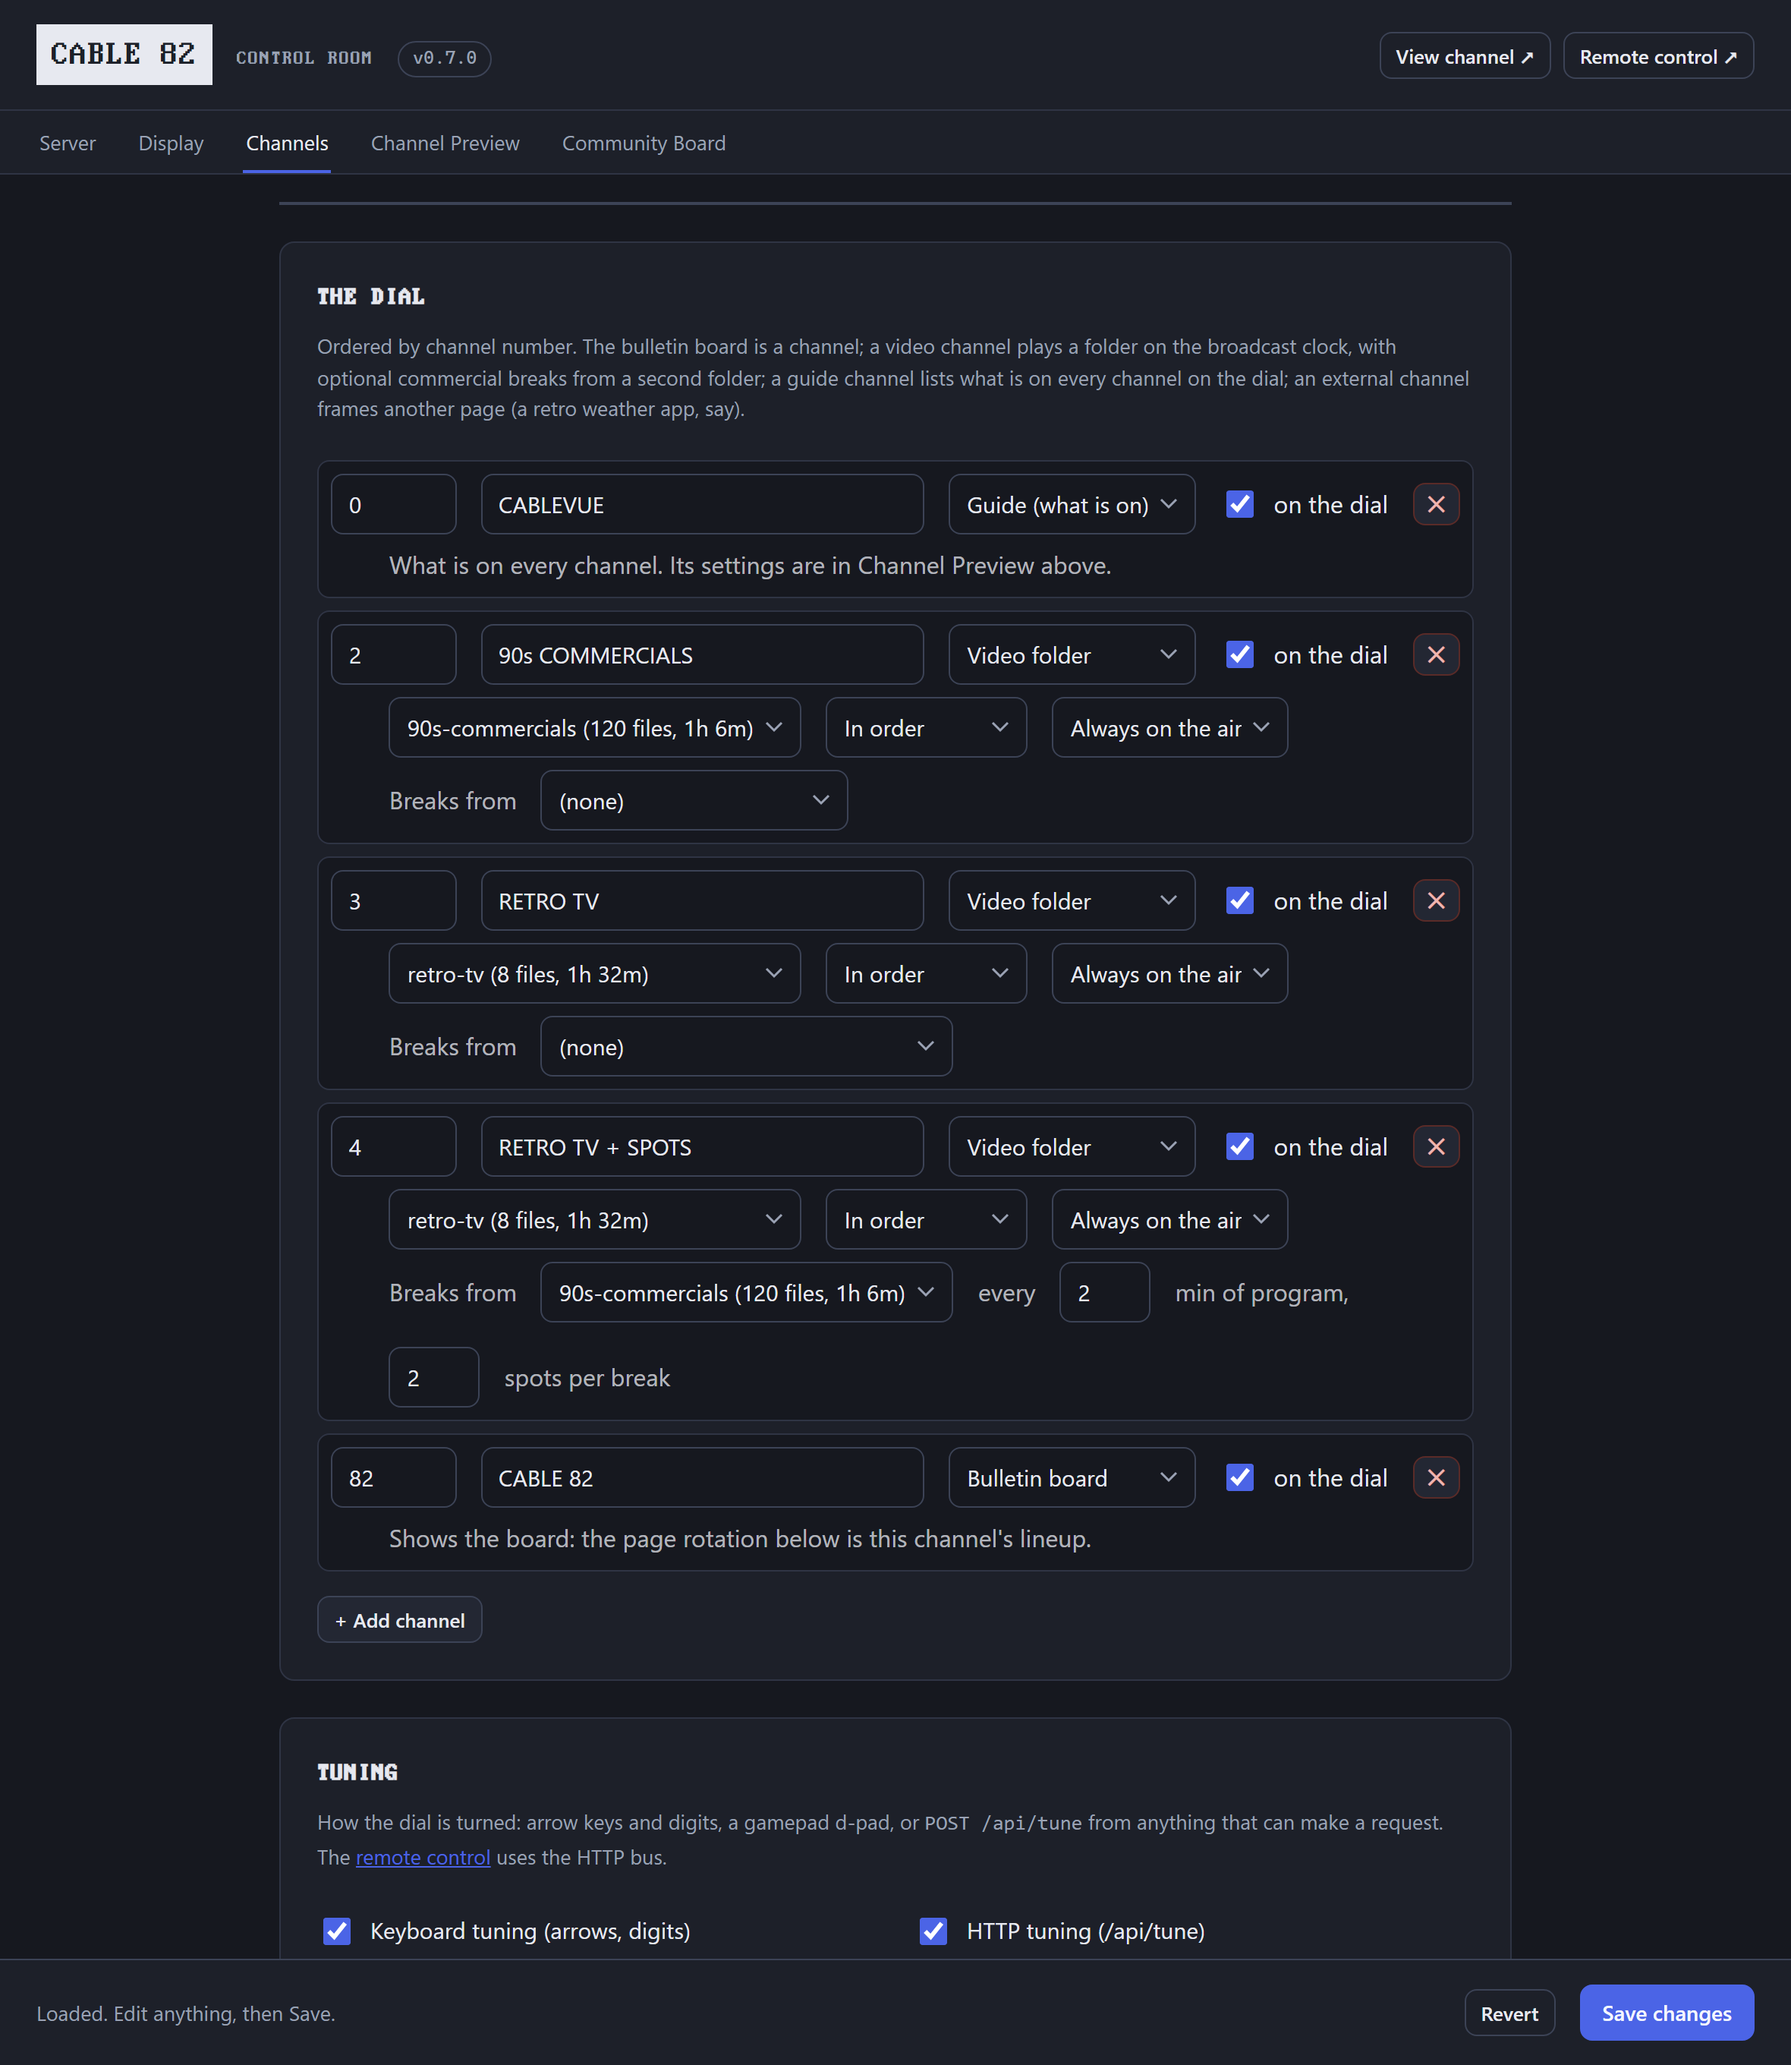
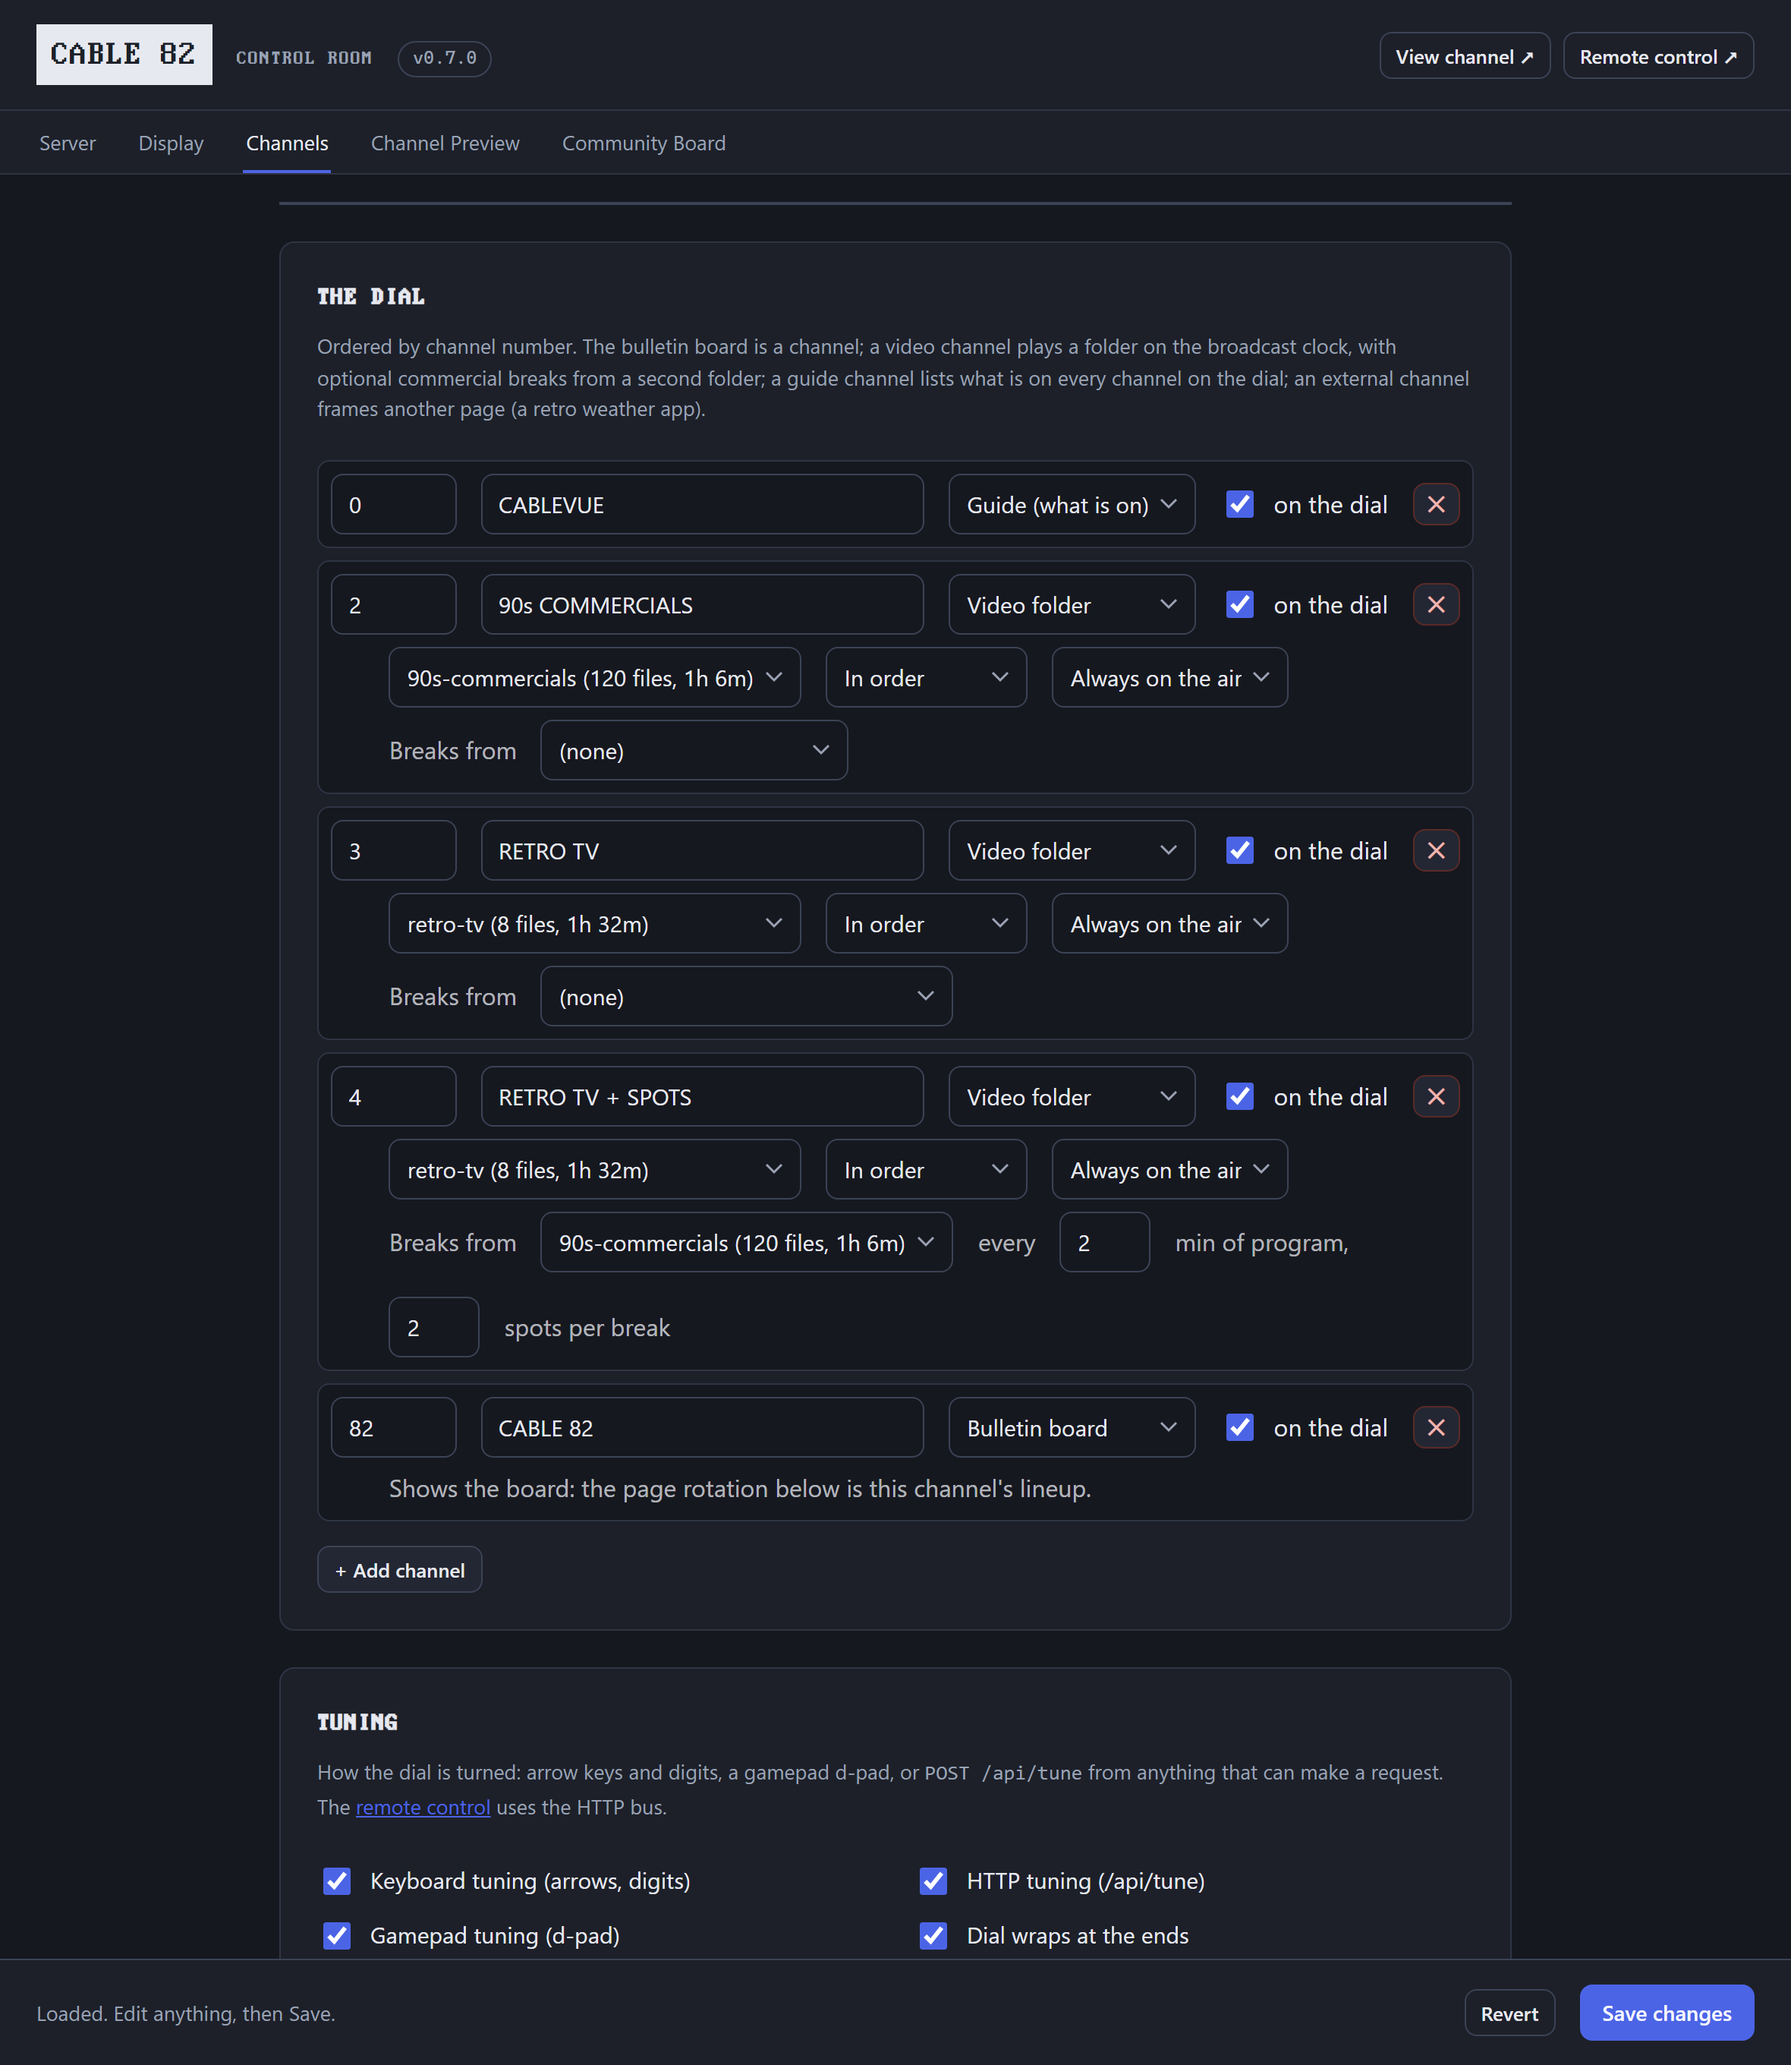
trim the guide row's note and the asides in the channel hints

diff --git a/config-page.js b/config-page.js
@@ -173,10 +173,10 @@
       if (ch.type === "bulletin") {
         body.appendChild(el("span", { class: "note" }, "Shows the board: the page rotation below is this channel's lineup."));
       } else if (ch.type === "guide") {
-        body.appendChild(el("span", { class: "note" }, "What is on every channel. Its settings are in Channel Preview above."));
+        // Nothing to set on the row: the guide has its own group in the room.
       } else if (ch.type === "external") {
         body.appendChild(el("input", {
-          type: "url", style: "flex:1;min-width:14em", value: ch.url || "", placeholder: "http://localhost:8080/  (ws4kp, say)",
+          type: "url", style: "flex:1;min-width:14em", value: ch.url || "", placeholder: "http://localhost:8080/  (ws4kp)",
           "aria-label": "External URL",
           onchange: (e) => { ch.url = e.target.value; },
         }));
@@ -207,7 +207,8 @@
         }
       }
 
-      const rows = [head, body];
+      // A guide row has an empty body; leaving it out keeps the row tight.
+      const rows = body.childElementCount ? [head, body] : [head];
       if (ch.type === "video") {
         // Commercial breaks: spots from a second folder, cut into the program
         // every so many minutes. "(none)" is the plain channel.

diff --git a/config.html b/config.html
@@ -527,7 +527,7 @@
       <h2 class="group-head" id="g-channels">Channels</h2>
       <section class="panel" id="p-dial">
         <h3>The dial</h3>
-        <p class="hint">Ordered by channel number. The bulletin board is a channel; a video channel plays a folder on the broadcast clock, with optional commercial breaks from a second folder; a guide channel lists what is on every channel on the dial; an external channel frames another page (a retro weather app, say).</p>
+        <p class="hint">Ordered by channel number. The bulletin board is a channel; a video channel plays a folder on the broadcast clock, with optional commercial breaks from a second folder; a guide channel lists what is on every channel on the dial; an external channel frames another page (a retro weather app).</p>
         <div id="channelList" class="list"></div>
         <button type="button" id="addChannel" class="small add-row">+ Add channel</button>
         <div id="week-grid-wrap" hidden>
